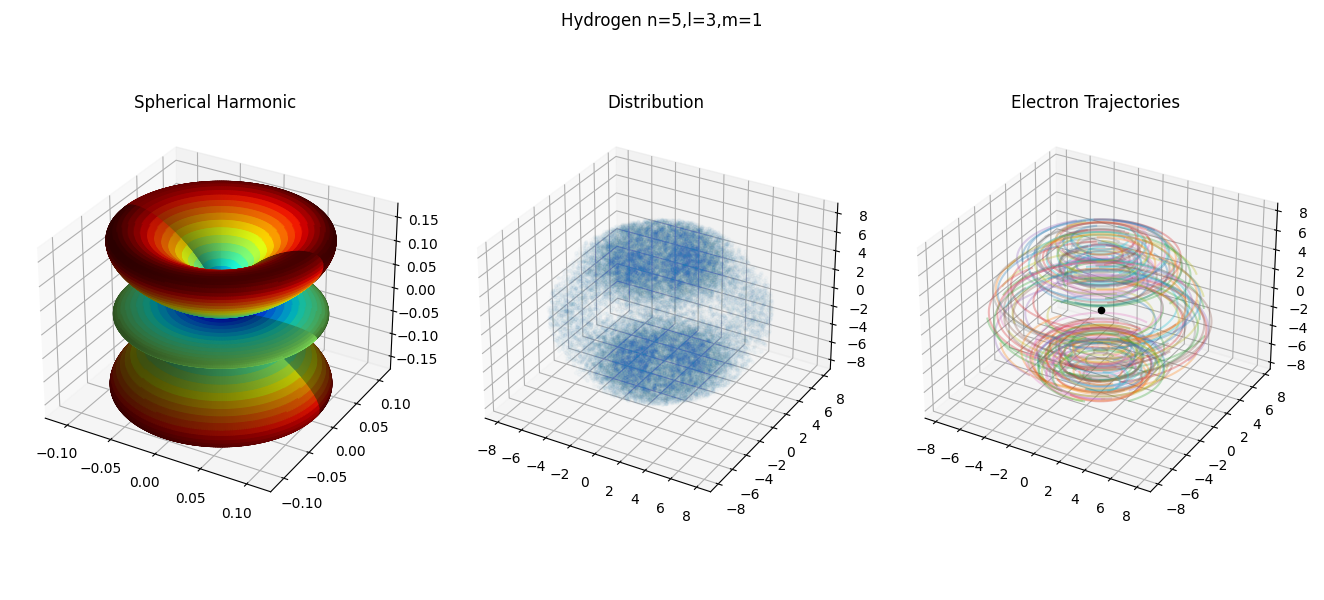
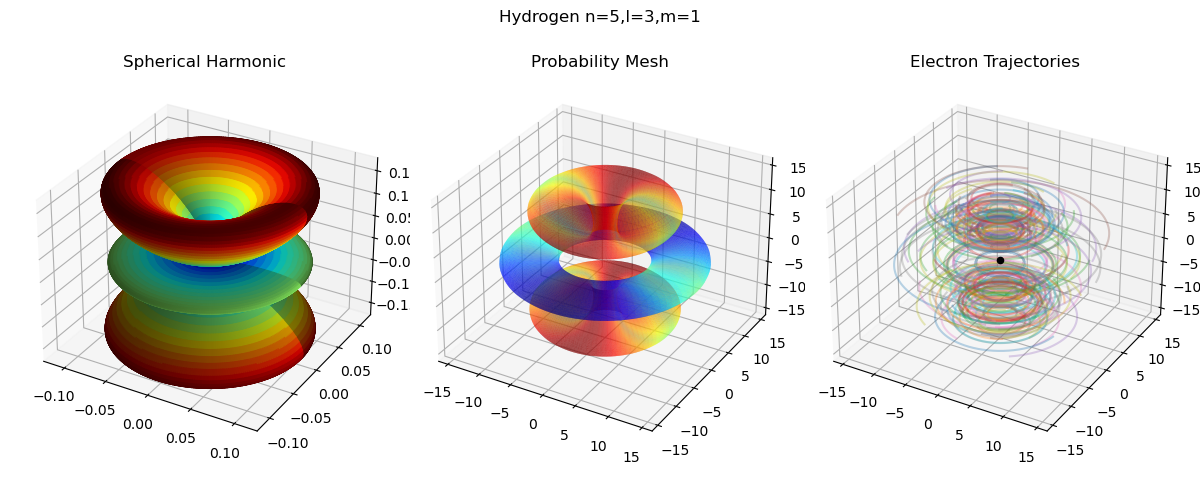
Plotting Probability Mesh instead of sampled points

diff --git a/examples/hydrogen.py b/examples/hydrogen.py
@@ -1,8 +1,10 @@
 import quantum
 import numpy as np
 from scipy.integrate import simps
+from skimage.measure import marching_cubes
 from functools import partial
 import matplotlib.pyplot as plt
+from mpl_toolkits.mplot3d.art3d import Poly3DCollection
 
 def hydrogen(
     t:float
@@ -10,6 +12,9 @@ def hydrogen(
 
     # create analytic wave function
     wf = quantum.analytic.HydrogenLike(5, 3, 1)
+    # radius containing the wave function
+    R = 16
+
     # create figure
     fig, (ax1, ax2, ax3) = plt.subplots(1, 3, figsize=(12, 5), subplot_kw={"projection": "3d"}, tight_layout=True)
     fig.suptitle("Hydrogen n=%i,l=%i,m=%i" % (wf.n, wf.l, wf.m))
@@ -20,7 +25,7 @@ def hydrogen(
 
     # create spherical grid
     theta, phi = np.meshgrid(
-        np.linspace(0, 2*np.pi, 300),
+        np.linspace(-np.pi, np.pi, 300),
         np.linspace(0, np.pi, 150),
         sparse=True
     )
@@ -41,35 +46,81 @@ def hydrogen(
     # plot spherical harmonic
     ax1.plot_surface(x[0], x[1], x[2], rstride=1, cstride=1, color='b', facecolors=facecolors)
     ax1.set(title="Spherical Harmonic")
-
     #
     # Probability Distribution
     #
+    
+    # create spherical grid
+    x = np.stack(
+        np.meshgrid(
+            np.linspace(0, 16, 100),
+            np.linspace(0, 2*np.pi, 100),
+            np.linspace(0, np.pi, 50),
+            indexing='ij'
+        ), axis=-1
+    )
+    
+    # evaluate wave function on grid
+    Y = wf.pdf(x, t=0)
 
-    s = quantum.utils.sampling.inverse_transfer_sampling(
-        pdf=partial(wf.pdf, t=0), 
-        num_samples=50000,
-        bounds=[[0, 8], [0, 2*np.pi], [0, np.pi]],
-        delta=0.05
+    # use marching cubes algorithm to build mesh
+    # from probability distribution
+    v, f, _, _ = marching_cubes(
+        volume=Y,
+        level=1e-5,
+        allow_degenerate=False, 
+        spacing=[
+            R/(x.shape[0]-1), 
+            2*np.pi/(x.shape[1]-1), 
+            np.pi/(x.shape[2]-1)
+        ]
     )
 
-    Y = wf.pdf(s, t=0)
+    # update radius to maximum radius of interest
+    R = v[:, 0].max()
+    # compute phase for each face
+    P = wf.psi(v, t=0).imag
+    P = P[f].mean(axis=1)
 
-    # convert to cartesian coordinates
-    x = quantum.utils.spherical.spherical_to_cartesian(s[:, 0], s[:, 1], s[:, 2])
+    # convert vertices from spherical to cartesian coordinate system
+    v = quantum.utils.spherical.spherical_to_cartesian(*v.T)
+    v = np.stack(v, axis=-1)
+
+    # create cyclic colormap
+    facecolors = plt.cm.ScalarMappable(
+        norm=plt.Normalize(vmin=P.min(), vmax=P.max()),
+        cmap=plt.cm.jet
+    ).to_rgba(P)
 
     # plot
-    ax2.scatter(*x, alpha=Y / Y.max() * 0.03, marker='.')
-    ax2.set(title="Distribution")    
+    ax2.add_collection(
+        Poly3DCollection(
+            v[f, :], 
+            facecolors=facecolors, 
+            alpha=0.5
+        )
+    )
+    ax2.set(
+        title="Probability Mesh",
+        xlim=[-R, R],
+        ylim=[-R, R],
+        zlim=[-R, R],
+    )
 
     #
     # Electron Trajectories
     # 
-
-    # take the first k points sampled from the distribution
-    # as initial query points for the trajectories
-    q = s[:200]
-    t = np.arange(0, 20, 0.01)
+   
+    # sample k points from the probability distribution
+    # as initial query points for the trajectories 
+    q = quantum.utils.sampling.inverse_transfer_sampling(
+        pdf=partial(wf.pdf, t=0), 
+        num_samples=200,
+        bounds=[[0, R], [0, 2*np.pi], [0, np.pi]],
+        delta=0.05
+    )
+    # specify sampling points in time
+    t = np.arange(0, 50, 0.05)
      
     # compute bohmian trajectories
     Q = quantum.extra.BohmianMechanics(wave=wf).trajectory(q=q, t=t)
@@ -82,12 +133,17 @@ def hydrogen(
     # plot all trajectories
     for i in range(Q.shape[1]):
         ax3.plot(Q[:, i, 0], Q[:, i, 1], Q[:, i, 2], alpha=0.3)
-    ax3.set(title="Electron Trajectories")
+    ax3.set(
+        title="Electron Trajectories",
+        # use the same limits as for probability
+        xlim=ax2.get_xlim(),
+        ylim=ax2.get_ylim(),
+        zlim=ax2.get_zlim(),
+    )
 
     return fig
 
 if __name__ == '__main__':
 
     fig = hydrogen(t=0)
-    plt.show()
     fig.savefig("/mnt/c/users/Nicla/OneDrive/Bilder/img.png")
